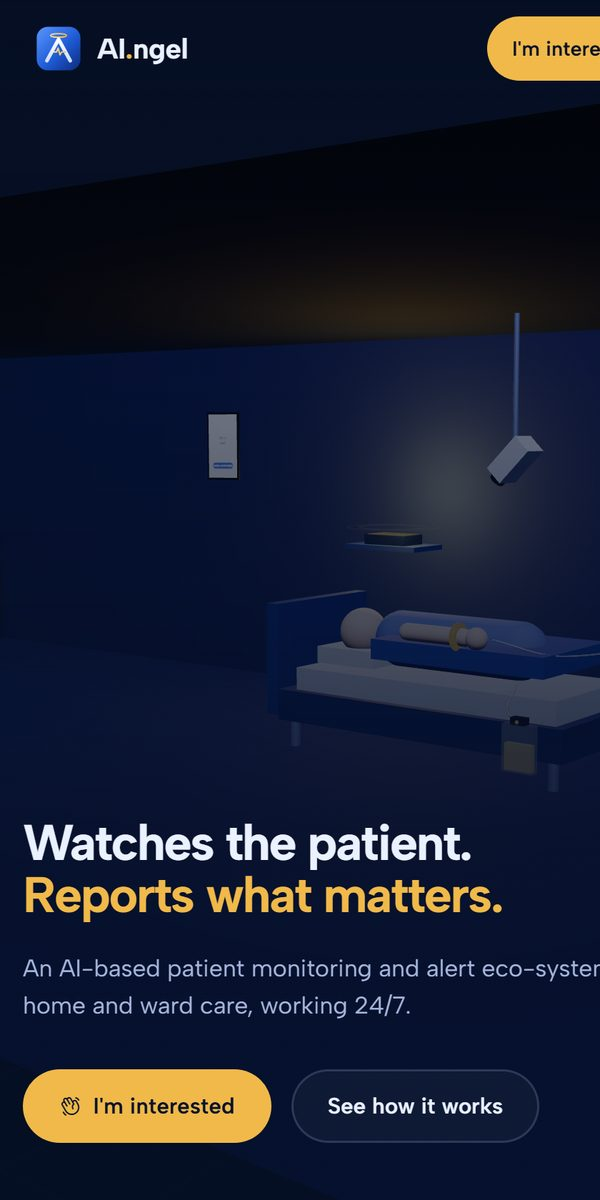
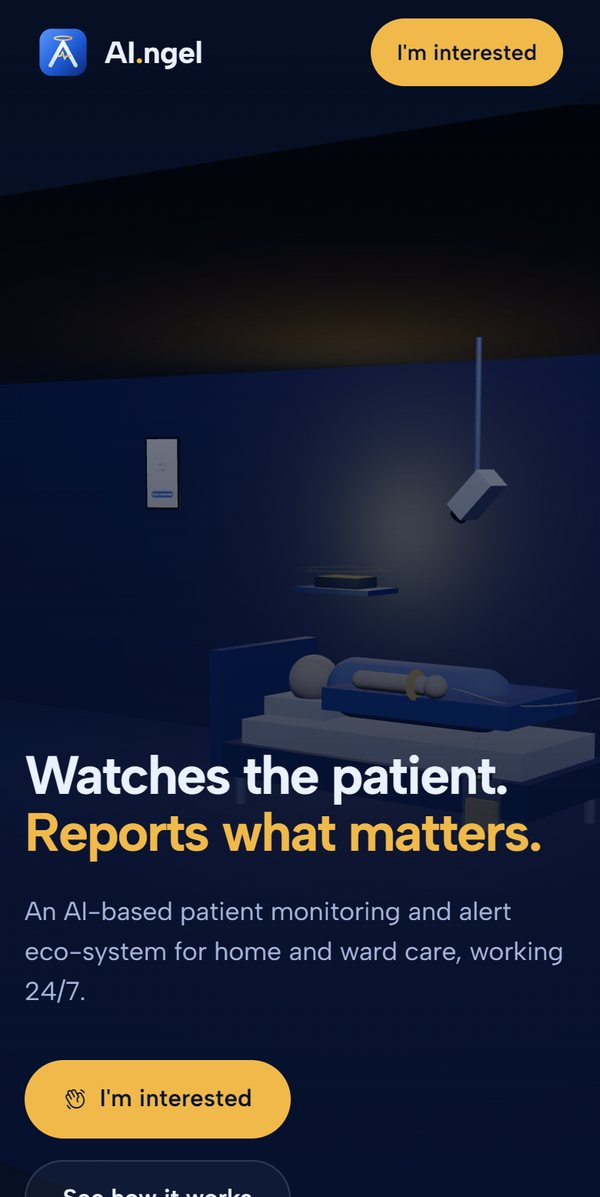
Full-width phone screenshots, premium gold gradients, framed portrait
Phone screenshots retaken at true iPhone size, so no site is cut at the
right edge any more. Gold gradients on buttons, numbers, headings and
the email; warm glows behind every section; contact on a gold dusk.
About photo now sits in an arched gold frame with floating badges.
Unused images removed.

diff --git a/css/site.css b/css/site.css
@@ -393,3 +393,89 @@ html:not(.js) .shot:not(:first-child) { display: none; }
   .mock .device-b { transform: none; }
   .lineup li.is-in { animation: none; }
 }
+
+/* =====================================================================
+   Premium layer: gold gradients, glows, portrait frame (user request)
+   ===================================================================== */
+:root {
+  --gold-grad: linear-gradient(135deg, #f6e3ad 0%, #d8b46a 38%, #b88a3e 70%, #8c6428 100%);
+  --gold-text: linear-gradient(180deg, #fbecc4 0%, #d9b56b 55%, #a97c34 100%);
+  --ink-grad: linear-gradient(180deg, #ffffff 30%, #efdcb4 100%);
+}
+
+/* Buttons and active filter: brushed gold */
+.btn, .chip.is-on { background: var(--gold-grad); background-size: 140% 140%; background-position: 0% 50%; transition: background-position 500ms var(--ease-out), transform var(--t-hover) var(--ease-out); }
+.btn:hover, .chip.is-on:hover { background: var(--gold-grad); background-size: 140% 140%; background-position: 100% 50%; }
+
+/* Gold text for the big numbers, place links and the email */
+.hero-facts dt, .places a, .plate-meta {
+  background: var(--gold-text); -webkit-background-clip: text; background-clip: text; color: transparent;
+}
+.places a:hover { background: none; color: var(--ink); -webkit-text-fill-color: currentColor; }
+
+/* The name: white melting into champagne */
+.hero-title span[aria-hidden], .h-head, .plate-text h3 {
+  background: var(--ink-grad); -webkit-background-clip: text; background-clip: text; color: transparent;
+}
+
+/* Warm light behind the hero phone and inside every section */
+.hero { background-image: radial-gradient(55% 45% at 50% 62%, rgba(214, 176, 101, 0.16), transparent 72%); }
+.plate { background-image: radial-gradient(70% 80% at 75% 50%, rgba(214, 176, 101, 0.10), transparent 70%); }
+.plate:nth-of-type(even) { background-image: radial-gradient(70% 80% at 25% 50%, rgba(214, 176, 101, 0.10), transparent 70%); }
+.plate-pic, .fun-stage { background: linear-gradient(150deg, rgba(255, 255, 255, 0.08) 0%, rgba(255, 255, 255, 0.015) 60%, rgba(214, 176, 101, 0.06) 100%); border-radius: 18px; }
+.everything { background: linear-gradient(180deg, #181512 0%, #120f0c 100%); }
+.about { background: radial-gradient(60% 50% at 20% 30%, rgba(214, 176, 101, 0.10), transparent 70%), linear-gradient(180deg, #181512 0%, #0f0d0a 100%); }
+
+/* Contact: deep gold dusk instead of flat grey */
+.contact {
+  background: radial-gradient(90% 110% at 0% 0%, #4a3818 0%, #1f170d 45%, #0c0a08 100%);
+  color: var(--ink);
+}
+.mail span { background: var(--gold-text); -webkit-background-clip: text; background-clip: text; color: transparent; }
+.mail:hover span, .mail:focus-visible span { background: var(--ink-grad); -webkit-background-clip: text; background-clip: text; }
+.socials a:hover, .contact-foot a:hover { color: var(--accent); }
+.foot-name { background: linear-gradient(180deg, #2c2419 0%, rgba(44, 36, 25, 0) 95%); -webkit-background-clip: text; background-clip: text; color: transparent; }
+
+/* ---------- Portrait: arched frame with a gold edge, glow and two floating badges ---------- */
+.about-pic { position: sticky; }
+.portrait {
+  position: relative; padding: 3px;
+  border-radius: 999px 999px 28px 28px;
+  background: var(--gold-grad);
+  box-shadow: 0 50px 90px -40px rgba(214, 176, 101, 0.45);
+}
+.portrait::before {
+  content: ""; position: absolute; inset: 10% -8% -6% -8%; z-index: -1;
+  background: radial-gradient(closest-side, rgba(214, 176, 101, 0.35), transparent);
+  filter: blur(30px);
+}
+.portrait img {
+  width: 100%; aspect-ratio: 2 / 3; object-fit: cover; object-position: 50% 30%;
+  border-radius: 999px 999px 25px 25px;
+  filter: contrast(1.04) saturate(1.05);
+  transition: transform 900ms var(--ease-out);
+}
+.about-pic:hover .portrait img { transform: scale(1.015); }
+.badges { margin: 0; }
+.badge {
+  position: absolute; display: flex; flex-direction: column; gap: 2px;
+  padding: 12px 18px; border-radius: 14px;
+  background: linear-gradient(#15110d, #15110d) padding-box, var(--gold-grad) border-box;
+  border: 1px solid transparent;
+  box-shadow: 0 20px 40px -18px rgba(0, 0, 0, 0.8);
+  font-size: var(--step-small); line-height: 1.35; color: var(--ink);
+  animation: float 6s ease-in-out infinite;
+}
+.badge strong { font-weight: 600; background: var(--gold-text); -webkit-background-clip: text; background-clip: text; color: transparent; }
+.badge-now { left: -4%; bottom: 9%; }
+.badge-also { right: -5%; top: 22%; animation-delay: -3s; }
+@keyframes float { 0%, 100% { transform: translateY(0); } 50% { transform: translateY(-8px); } }
+
+@media (max-width: 720px) {
+  .about-pic { position: relative; width: 86%; margin: 0 auto; }
+  .badge-now { left: -4%; }
+  .badge-also { right: -4%; }
+  .plate-pic, .fun-stage { border-radius: 14px; }
+}
+@media (prefers-reduced-motion: reduce) { .badge { animation: none; } }
+@media (max-width: 720px) { .about-pic { top: auto; } .about-text { margin-top: 80px; } }

diff --git a/index.html b/index.html
@@ -130,7 +130,11 @@
 <!-- ABOUT -->
 <section class="about" id="about" aria-labelledby="about-title">
   <figure class="about-pic rise">
-    <img src="assets/work/afthab.jpg" width="800" height="1200" alt="Mohammed Afthab C S, arms folded, in a black shirt" loading="lazy">
+    <div class="portrait"><img src="assets/work/afthab.jpg" width="800" height="1200" alt="Mohammed Afthab C S, arms folded, in a black shirt" loading="lazy"></div>
+    <figcaption class="badges">
+      <span class="badge badge-now"><strong>Now</strong>Software Engineer · Architrone, Dubai</span>
+      <span class="badge badge-also"><strong>Also</strong>Co-founder · Clixware</span>
+    </figcaption>
   </figure>
   <div class="about-text">
     <h2 id="about-title" class="h-head rise">About me</h2>
